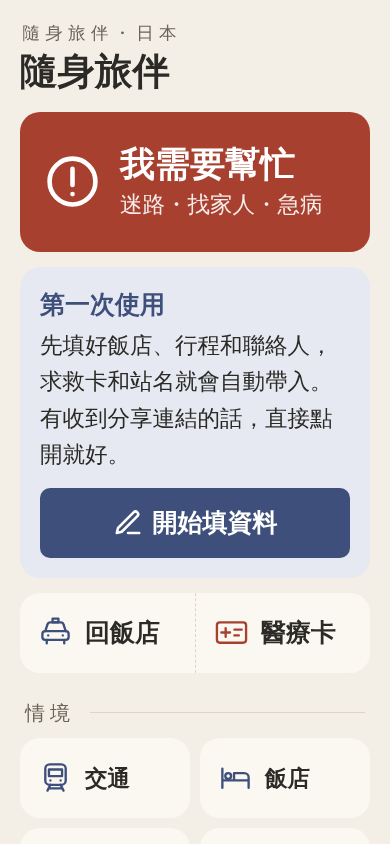
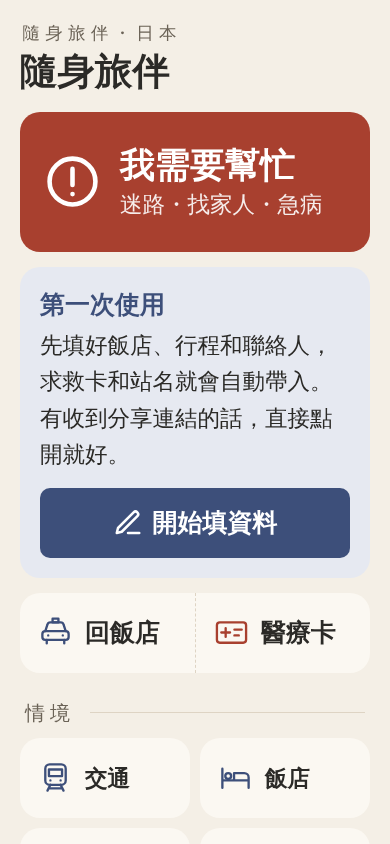
Deep red emergency fills in dark mode; 完成 as the setup's primary button
- New `sos` / `on-sos` tokens: 我需要幫忙, the help header, 110/119 and
  BUTTON.danger stay deep vermilion with white text in both themes
  (dark mode used to turn them pale salmon with dark text). Covered by
  the contrast test.
- Setup dock: 完成 is the solid button, 分享 a soft one (BUTTON.soft).
- Home: 迷路・找家人・急病 stays on one line at the largest text size.
- Docs and screenshots updated.

Claude-Session: https://claude.ai/code/session_01HCVzmT4sZctHsc4m8wUAkT

Changed region(s): [[0.3077, 0.154, 0.6769, 0.2156], [0.7077, 0.154, 0.7385, 0.2156]]

diff --git a/src/ui/help.ts b/src/ui/help.ts
@@ -59,7 +59,7 @@ export function renderHelp(root: HTMLElement): void {
     root,
     h(
       "header",
-      { class: "pt-safe sticky top-0 z-10 flex items-center justify-between gap-2 bg-shu px-3 pb-2 text-on-accent" },
+      { class: "pt-safe sticky top-0 z-10 flex items-center justify-between gap-2 bg-sos px-3 pb-2 text-sos-on" },
       h(
         "a",
         { href: "#/", class: "inline-flex min-h-14 items-center gap-1 rounded-lg px-3 text-lg font-bold active:bg-black/10" },
@@ -184,8 +184,8 @@ function callDock(familyLabel: string, familyTel: string | null): HTMLElement[] 
       { class: `grid gap-2 ${familyTel ? "grid-cols-3" : "grid-cols-2"}` },
       // The family is abroad: say so, since the call is charged as international.
       familyTel && dial("phone", familyLabel, "國際電話", familyTel, "bg-ai text-on-accent"),
-      police && dial("shield", "110", "警察", telOf(police.number), "bg-shu text-on-accent"),
-      ambulance && dial("firstaid", "119", "救護車", telOf(ambulance.number), "bg-shu text-on-accent"),
+      police && dial("shield", "110", "警察", telOf(police.number), "bg-sos text-sos-on"),
+      ambulance && dial("firstaid", "119", "救護車", telOf(ambulance.number), "bg-sos text-sos-on"),
     ),
   );
 }

diff --git a/src/ui/home.ts b/src/ui/home.ts
@@ -74,14 +74,15 @@ export function renderHome(root: HTMLElement): void {
         "a",
         {
           href: "#/help",
-          class: "mt-3 flex min-h-28 items-center gap-4 rounded-2xl bg-shu px-5 py-4 text-on-accent transition active:scale-[0.98]",
+          class: "mt-3 flex min-h-28 items-center gap-4 rounded-2xl bg-sos px-5 py-4 text-sos-on transition active:scale-[0.98]",
         },
         icon("help", "h-11 w-11 shrink-0"),
         h(
           "span",
           { class: "text-left" },
           h("span", { class: "block whitespace-nowrap text-[min(2rem,9vw)] font-bold leading-tight" }, "我需要幫忙"),
-          h("span", { class: "block text-lg opacity-90" }, "迷路・找家人・急病"),
+          // One line even at the largest text size: it shrinks with the screen before it wraps.
+          h("span", { class: "block whitespace-nowrap text-[min(1.125rem,6vw)] opacity-90" }, "迷路・找家人・急病"),
         ),
       ),
       empty &&

diff --git a/src/ui/setup.ts b/src/ui/setup.ts
@@ -476,8 +476,9 @@ export function renderSetup(root: HTMLElement): void {
       h(
         "div",
         { class: "grid grid-cols-2 gap-2" },
-        h("a", { href: "#/", class: `${BUTTON.secondary} min-h-14` }, icon("check"), "完成"),
-        h("a", { href: "#/share", class: `${BUTTON.primary} min-h-14` }, icon("share"), "分享"),
+        // 完成 is what everyone does; 分享 is for family filling it in for someone else, so it stays soft.
+        h("a", { href: "#/share", class: `${BUTTON.soft} min-h-14` }, icon("share"), "分享"),
+        h("a", { href: "#/", class: `${BUTTON.primary} min-h-14` }, icon("check"), "完成"),
       ),
     ),
   ]);

diff --git a/src/style.css b/src/style.css
@@ -18,6 +18,12 @@
   --ai-soft: 230 233 241;
   --shu: 168 64 47;
   --shu-soft: 247 229 222;
+  /*
+   * Solid emergency fills (我需要幫忙, 110/119) keep a deep vermilion with white
+   * text in both themes: a pale salmon with dark text no longer reads as urgent.
+   */
+  --sos: 168 64 47;
+  --on-sos: 255 255 255;
   --ok: 56 100 66;
   --ok-soft: 228 238 225;
   --warn-soft: 245 234 205;
@@ -42,6 +48,8 @@
   --ai-soft: 44 49 66;
   --shu: 232 140 118;
   --shu-soft: 72 40 34;
+  --sos: 170 58 40;
+  --on-sos: 255 255 255;
   --ok: 130 200 145;
   --ok-soft: 34 52 38;
   --warn-soft: 68 56 28;

diff --git a/src/ui/dom.ts b/src/ui/dom.ts
@@ -161,8 +161,10 @@ const BUTTON_BASE =
 /** Shared button looks; every one is at least 4rem tall. */
 export const BUTTON = {
   primary: `${BUTTON_BASE} bg-ai text-on-accent`,
-  danger: `${BUTTON_BASE} bg-shu text-on-accent`,
+  danger: `${BUTTON_BASE} bg-sos text-sos-on`,
   secondary: `${BUTTON_BASE} bg-sand text-ink`,
+  /** A second action that still matters, e.g. 分享 next to 完成. */
+  soft: `${BUTTON_BASE} bg-ai-soft text-ai`,
 };
 
 /** Small caption above a section. */

diff --git a/tailwind.config.js b/tailwind.config.js
@@ -23,6 +23,7 @@ export default {
         // 藍 indigo: actions. 朱 vermilion: help and emergencies.
         ai: { DEFAULT: token("ai"), soft: token("ai-soft") },
         shu: { DEFAULT: token("shu"), soft: token("shu-soft") },
+        sos: { DEFAULT: token("sos"), on: token("on-sos") },
         ok: { DEFAULT: token("ok"), soft: token("ok-soft") },
         warn: { soft: token("warn-soft") },
         // Exit-sign yellow, for exits and elevators.

diff --git a/tests/contrast.test.ts b/tests/contrast.test.ts
@@ -51,6 +51,7 @@ const PAIRS: [string, string][] = [
   ["ok", "card"],
   ["on-accent", "ai"],
   ["on-accent", "shu"],
+  ["on-sos", "sos"],
   ["on-accent", "ok"],
   ["on-exit", "exit"],
 ];

diff --git a/docs/changelog.md b/docs/changelog.md
@@ -17,6 +17,9 @@ UX 檢視後選定的方向（質感「旅館說明卡」、頁首 A、情境格
 - **振假名與拼音排版**：拼音一個字一欄、換行時假名貼到上一行的問題；振假名比漢字寬時，漢字不再被拉開（新 宿）。
 - **橫拿時文字被切掉**：「給對方看」橫拿時，播放按鈕移到頂列；文字太長時從第一行開始捲，不會上下都被裁掉。
 - **給對方點選**：手機交給對方後，頂列說明改成日文「こちらをご覧ください」；回答畫面拿掉重複的「對方的回答是」。日文在片語之間換行（ください 不會拆成 くださ／い）。
+- **深色模式的求救按鈕**：「我需要幫忙」、求救頁頂列和 110／119 改用新的 `sos` 色（深紅底白字），深色模式下不再是淡粉紅配黑字。
+- **設定資料**：底部實心按鈕改成「完成」，「分享」改成淡藍底，一個畫面只有一個實心按鈕的原則不變。
+- **特大字**：首頁「迷路・找家人・急病」不再換行。
 - **症狀卡**：勾了症狀後，「給對方看（N 項）」固定在畫面底部；症狀名稱不會在詞中間斷行。
 
 ## 2026-10-11

diff --git a/docs/design.md b/docs/design.md
@@ -22,6 +22,7 @@
    | 砂色 | `sand` | 次要按鈕、捷徑 |
    | 靛藍 | `ai` | 可以點的東西、一般情境 |
    | 磚紅 | `shu` | 緊急：求救、醫療、110／119 |
+   | 深朱 | `sos` | 緊急的實心按鈕（我需要幫忙、110／119）：深淺色模式都是深紅底白字，深色模式也不會變成淡粉紅 |
    | 黃 | `exit` | 出口、電梯，比照車站出口標示的黑字黃底 |
    | 綠 | `ok` | 讓對方點選回答 |
    | 淡黃 | `warn-soft` | 提示、萬用句 |
